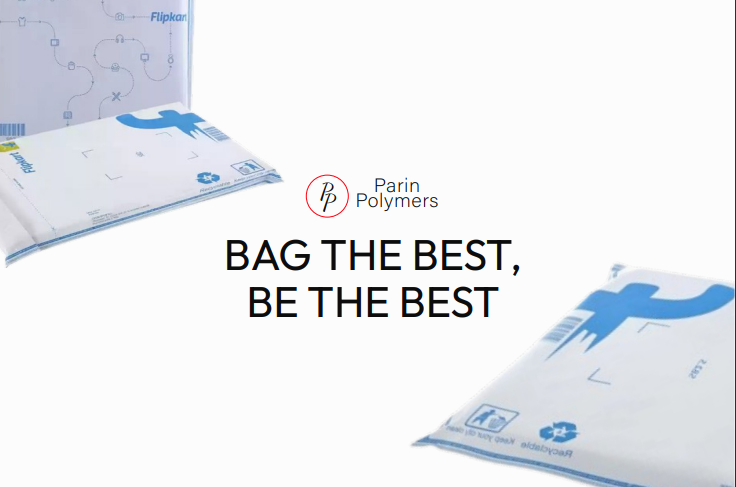
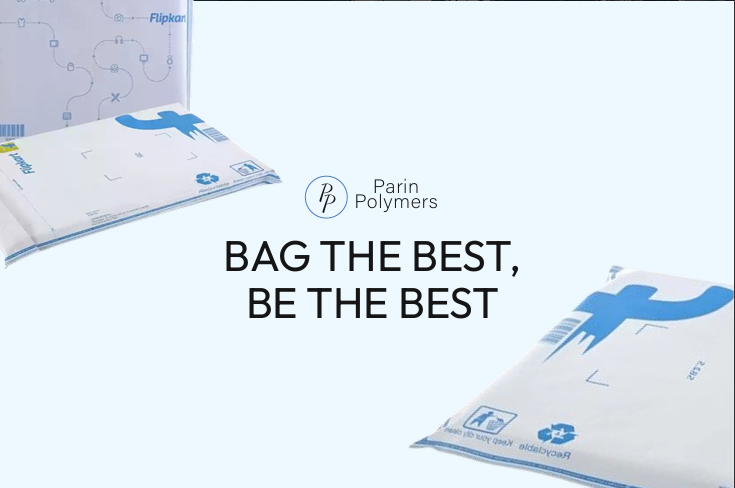
changed pink to blue

diff --git a/client/src/pages/Navbar/Navbar.jsx b/client/src/pages/Navbar/Navbar.jsx
@@ -61,7 +61,7 @@ export default function Navbar() {
   ) : (
     <nav
       id="navbar"
-      className="absolute w-screen flex flex-col justify-center md:gap-0 items-center py-12 z-50 md:justify-between md:overflow-x-hidden md:px-8 left-0 top-0 mt-8 gap-2"
+      className="absolute w-screen flex flex-col justify-center md:gap-0 items-center pt-20 pb-12 z-50 md:justify-between md:overflow-x-hidden md:px-8 left-0 top-0 gap-2"
     >
       {menu ? (
         <div className="hidden md:block">
@@ -79,8 +79,8 @@ export default function Navbar() {
                 <Link
                   to="/"
                   className={`${
-                    isActiveTab("/") ? "text-pink" : "text-black2"
-                  } hover:text-pink`}
+                    isActiveTab("/") ? "text-blue" : "text-black2"
+                  } hover:text-blue`}
                 >
                   Home
                 </Link>
@@ -89,14 +89,14 @@ export default function Navbar() {
                 <Link
                   to="/#category"
                   className={`${
-                    isActiveTab("/") ? "text-black2" : "text-pink"
-                  } hover:text-pink`}
+                    isActiveTab("/") ? "text-black2" : "text-blue"
+                  } hover:text-blue`}
                 >
                   Categories
                 </Link>
               </li>{" "}
               <li onClick={menuf}>
-                <Link to="/#contact" className="text-black2 hover:text-pink">
+                <Link to="/#contact" className="text-black2 hover:text-blue">
                   Contact
                 </Link>
               </li>
@@ -117,7 +117,7 @@ export default function Navbar() {
                 <div className="flex flex-col items-center" onClick={menuf}>
                   <Link
                     to="/account"
-                    className="hover:text-pink text-black2 flex flex-col items-center"
+                    className="hover:text-blue text-black2 flex flex-col items-center"
                   >
                     <AccountCircleIcon />
                     <p>My Account</p>
@@ -133,7 +133,7 @@ export default function Navbar() {
       ) : (
         ""
       )}
-      <div className="w-full flex justify-center gap-8 md:gap-0 md:justify-around items-center">
+      <div className="w-full flex justify-center gap-8 md:gap-0 md:justify-around items-center pb-2 mt-16">
         <Link to="/">
           <img src={logo} alt="logo" className="w-40 md:w-24" />
         </Link>
@@ -184,9 +184,9 @@ export default function Navbar() {
           </div>
         )}
       </div>
-      <div className="bg-[#F00E88] w-full flex justify-around items-center py-3">
+      <div className="bg-darkblue w-full flex justify-around items-center py-3">
         <ul
-          className="flex items-center list-none md:hidden text-white"
+          className="flex items-center list-none md:hidden text-white text-base"
           style={{ gap: "2.5vw" }}
         >
           <li>

diff --git a/client/src/pages/Footer/Footer.jsx b/client/src/pages/Footer/Footer.jsx
@@ -35,7 +35,7 @@ export default function Footer() {
   ) : (
     <footer
       id="footer"
-      className="flex md:flex-col justify-left py-12 md:gap-12 bg-[#FFE5F5] w-full"
+      className="flex md:flex-col justify-left py-12 md:gap-12 bg-blue w-full"
     >
       <div className="w-1/3 flex flex-col items-center md:w-full">
         <div className="flex flex-col md:items-center justify-center gap-4 w-3/5 md:w-4/5">
@@ -47,7 +47,7 @@ export default function Footer() {
         </div>
       </div>
       <ul className="text-black flex flex-col custom-width-15 gap-2.5 font-normal md:w-full md:items-center">
-        <p className="text-2xl md:text-xl font-medium text-[#F01089] my-4 uppercase">
+        <p className="text-2xl md:text-xl font-medium text-black my-4 uppercase">
           Company
         </p>
         <li className="md:text-center">
@@ -64,7 +64,7 @@ export default function Footer() {
         </li>
       </ul>
       <ul className="text-black flex flex-col custom-width-15 gap-2.5 font-normal md:w-full md:items-center">
-        <p className="text-2xl md:text-xl font-medium text-[#F01089] my-4 uppercase">
+        <p className="text-2xl md:text-xl font-medium text-black my-4 uppercase">
           Categories
         </p>
         <li className="md:text-center">
@@ -81,7 +81,7 @@ export default function Footer() {
         </li>
       </ul>{" "}
       <ul className="text-black flex flex-col custom-width-15 gap-2.5 font-normal md:w-full md:items-center">
-        <p className="text-2xl md:text-xl font-medium text-[#F01089] my-4 uppercase">
+        <p className="text-2xl md:text-xl font-medium text-black my-4 uppercase">
           Our Policies
         </p>
         <li className="md:text-center">
@@ -95,7 +95,7 @@ export default function Footer() {
         </li>
       </ul>{" "}
       <ul className="text-black flex flex-col custom-width-15 gap-2.5 font-normal md:w-full md:items-center">
-        <p className="text-2xl md:text-xl font-medium text-[#F01089] my-4 uppercase">
+        <p className="text-2xl md:text-xl font-medium text-black my-4 uppercase">
           Get in touch
         </p>
         <li className="md:text-center">

diff --git a/client/src/pages/Home/Components/Hero.jsx b/client/src/pages/Home/Components/Hero.jsx
@@ -4,18 +4,18 @@ export default function Hero() {
   return (
     <section
       id="hero"
-      className="h-screen w-screen md:h-auto flex md:flex-col justify-center items-center"
+      className="h-screen w-screen md:h-auto flex md:flex-col justify-center items-center bg-bgblue"
     >
       <div className="custom-width-55 md:w-full flex items-center justify-center">
         <div className="w-11/12 flex items-center justify-center flex-col gap-8 mt-32">
           <h1 className="text-6xl md:text-5xl text-black font-medium">
             <span className="text-8xl md:text-6xl font-extrabold my-2">
-              COURIER <span className="text-pink">BAGS</span>
+              COURIER <span className="text-darkblue">BAGS</span>
             </span>
             <br />
             CUSTOM PRINTING FROM
           </h1>
-          <button className="button-filled text-4xl py-4 px-14 rounded-3xl">Rs.490</button>
+          <button className="button-filled text-5xl py-5 px-20 rounded-3xl">Rs.490</button>
         </div>
       </div>
       <div className="flex custom-width-45 md:w-full items-center justify-center">

diff --git a/client/src/pages/Home/Home.scss b/client/src/pages/Home/Home.scss
@@ -1,21 +1,21 @@
-#HomeBest {
-  height: 100vh;
-  @media (max-width: 770px) {
-    height: auto;
-  }
-}
-#HomePackaging {
-  height: 50vh;
-  @media (max-width: 770px) {
-    height: auto;
-  }
-}
-#HomePackagingExcellence {
-  height: 100vh;
-  @media (max-width: 770px) {
-    height: auto;
-  }
-}
+// #HomeBest {
+//   height: 100vh;
+//   @media (max-width: 770px) {
+//     height: auto;
+//   }
+// }
+// #HomePackaging {
+//   height: 50vh;
+//   @media (max-width: 770px) {
+//     height: auto;
+//   }
+// }
+// #HomePackagingExcellence {
+//   height: 100vh;
+//   @media (max-width: 770px) {
+//     height: auto;
+//   }
+// }
 .home-form-label {
   color: #000 !important;
   font-size: 19px !important;

diff --git a/client/src/pages/Home/Components/Inquiry.jsx b/client/src/pages/Home/Components/Inquiry.jsx
@@ -109,8 +109,8 @@ const Inquiry = () => {
       {" "}
       {loading && <Spinnerf />}
       <Stack spacing={2}>{alert}</Stack>
-      <div className="w-3/4 flex flex-col gap-8 bg-pinkbg rounded-3xl p-16 md:w-11/12 md:p-6">
-        <h2 className="uppercase text-6xl md:text-5xl text-white font-medium text-center">
+      <div className="w-3/4 flex flex-col gap-8 bg-blue rounded-3xl p-16 md:w-11/12 md:p-6">
+        <h2 className="uppercase text-6xl md:text-5xlfont-medium text-center">
           BULK INQUIRY
         </h2>
 

diff --git a/client/tailwind.config.js b/client/tailwind.config.js
@@ -6,13 +6,9 @@ export default {
     colors: {
       white: "#FFF",
       black: "#000",
-      "blue-2": "#ADD7F6",
-      "blue-1": "#87BFFF",
-      "blue-0": "#3F8EFC",
-      "blue+1": "#2667FF",
-      "blue+2": "#3B28CC",
-      bluepurple: "#4633D7",
-      navyblue: "#1F20AE",
+      darkblue: "#4D7DC1",
+      bgblue:"#EDF8FF",
+      blue: "#8AB9E3",
       gray: "#000",
       gray2: "#000",
       pink:"#FF43BC",

diff --git a/client/src/App.scss b/client/src/App.scss
@@ -38,7 +38,7 @@ textarea {
   gap: 10px;
   flex-shrink: 0;
   border-radius: 10px;
-  background: #ff43bb;
+  background: #4D7DC1;
   color: white;
 }
 .button-outlined {
@@ -47,7 +47,7 @@ textarea {
   align-items: center;
   gap: 8.975px;
   border-radius: 10.77px;
-  border: 0.897px solid #ff43bb;
+  border: 0.897px solid #4D7DC1;
   background: white;
-  color: #ff43bb;
+  color: #4D7DC1;
 }

diff --git a/client/src/pages/Home/Components/About.jsx b/client/src/pages/Home/Components/About.jsx
@@ -4,7 +4,7 @@ export default function About() {
   return (
     <section
       id="about"
-      className="flex flex-col items-center justify-center gap-6 bg-pink py-16"
+      className="flex flex-col items-center justify-center gap-6 bg-darkblue py-24"
     >
       <h2 className="uppercase text-6xl md:text-5xl text-white font-medium text-center">
         About Us

diff --git a/client/src/pages/Login/Login.jsx b/client/src/pages/Login/Login.jsx
@@ -150,7 +150,7 @@ const Login = () => {
 
           <button
             type="submit"
-            className="bg-pink border-1 border-solid border-pink text-white rounded w-full py-3"
+            className="bg-blue border-1 border-solid border-blue text-white rounded w-full py-3"
           >
             Login
           </button>

diff --git a/client/src/pages/Home/Components/HomePackagingExcellence.jsx b/client/src/pages/Home/Components/HomePackagingExcellence.jsx
@@ -5,7 +5,7 @@ export default function HomePackagingExcellence() {
     <img
       src="./assets\Home\HomePackagingExcellence.png"
       alt="With custom packaging, elevate your brand!"
-      className="w-full object-cover md:object-contain"
+      className="w-full object-contain"
       id="HomePackagingExcellence"
     />
   );

diff --git a/client/src/pages/Home/Home.jsx b/client/src/pages/Home/Home.jsx
@@ -13,7 +13,7 @@ export default function Home() {
       <Hero />
       <About />
       <HomeBest />
-      <div className="mt-10 text-center">Products Section here</div>
+      <div className="my-20 text-center text-5xl font-bold">Products here</div>
       <HomePackaging />
       <Inquiry />
       <HomePackagingExcellence />

diff --git a/client/src/pages/Home/Components/HomePackaging.jsx b/client/src/pages/Home/Components/HomePackaging.jsx
@@ -5,7 +5,7 @@ export default function HomePackaging() {
     <img
       src="./assets\Home\HomePackaging.png"
       alt="With custom packaging, elevate your brand!"
-      className="w-full object-cover md:object-contain"
+      className="w-full object-contain"
       id="HomePackaging"
     />
   );
